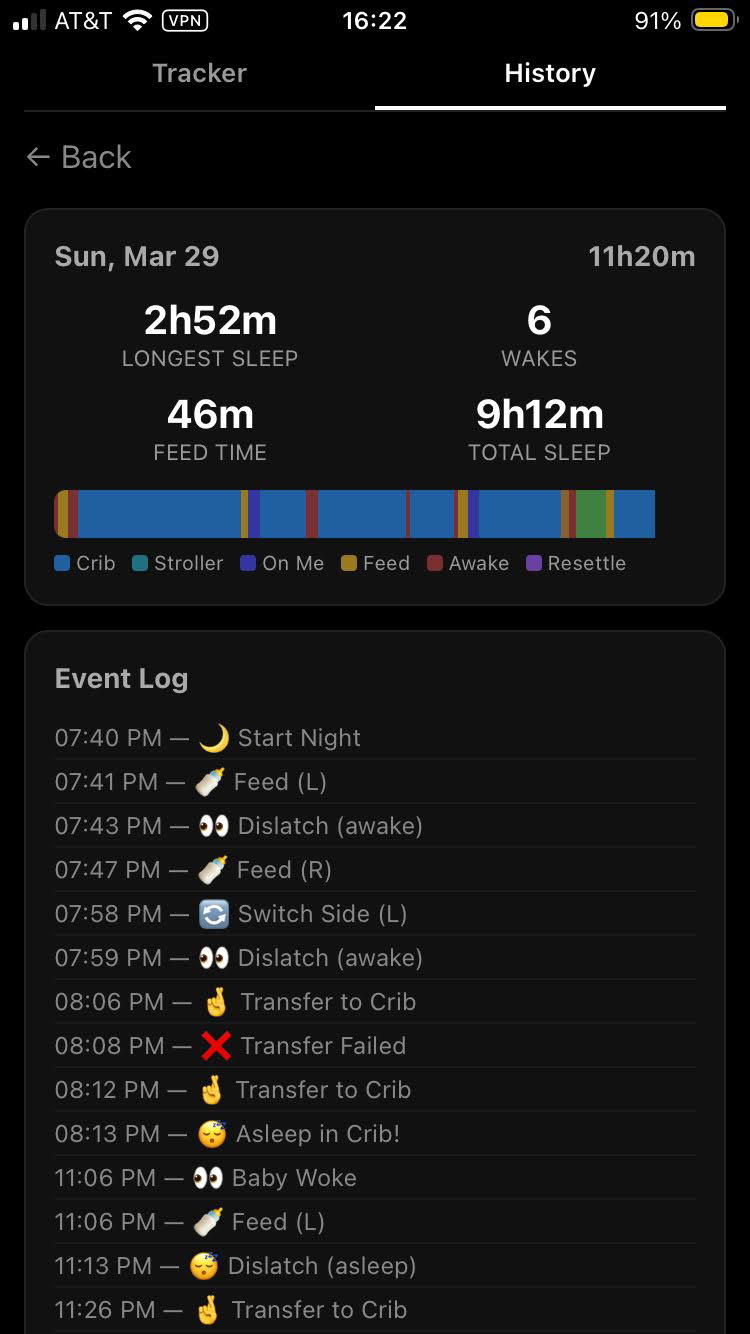
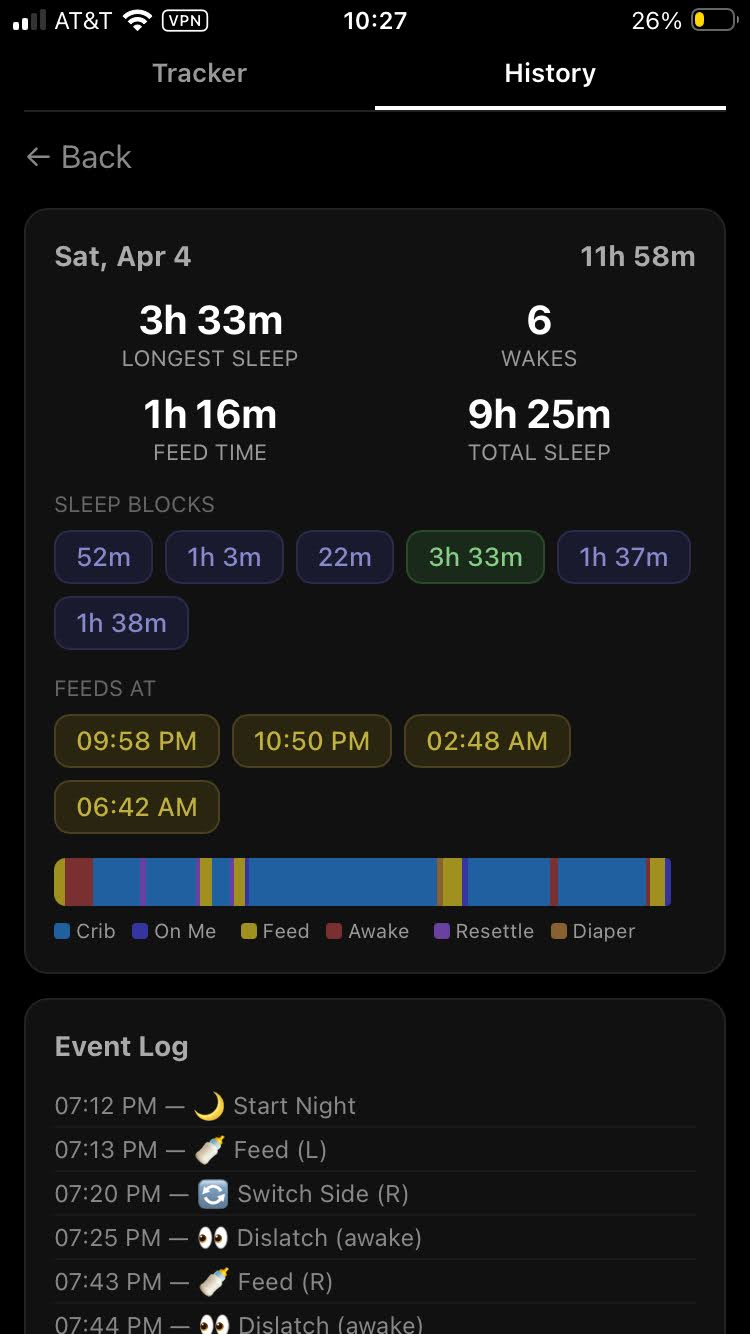
Update README: refresh screenshots, add missing features, fix commands
- Replace screenshots: tracker-awake, night-detail, add trends chart
- Remove tracker-feeding screenshot (3 images is tighter)
- Add self-soothing to "What it tracks"
- Add night duration, sleep block durations, feed times to per-night summary
- Add feed times scatter plot to "What it reports"
- Fix docker compose update command (build, not pull, for local builds)

diff --git a/README.md b/README.md
@@ -17,15 +17,17 @@ The app models your night as a state machine. Depending on the current state, on
 - **Feeds** — start, switch breast (auto-flips), dislatch (awake or asleep). Tracks left/right duration separately.
 - **Sleep** — on me, in crib, in stroller. Tracks where the baby is sleeping.
 - **Transfers** — crib transfer attempts with deferred outcome (tap result when hands are free).
+- **Self-soothing** — baby put down awake or stirring in crib, settling without intervention.
 - **Resettling** — in-crib settling without a feed.
 - **Strolling** — the nuclear option when the crib isn't working.
 - **Diaper changes** — because shit happens, at any time.
 
 ## What it reports
 
-- Per-night summary: total sleep, total feed time, wake count, feed count, longest sleep block
+- Per-night summary: night duration, total sleep, total feed time, wake count, feed count, longest sleep block, individual sleep block durations, feed times
 - Color-coded timeline bar showing the night at a glance
 - Full event log with timestamps
+- Feed times scatter plot showing when feeds happen across nights
 - Trend charts with 3-night moving averages: longest sleep, total sleep, wake count, feed count, total feed time, feed time by breast (L/R)
 - CSV export for backup or analysis
 
@@ -33,8 +35,8 @@ The app models your night as a state machine. Depending on the current state, on
 
 <p align="center">
   <img src="docs/tracker-awake.png" width="250" alt="Tracker — awake state">
-  <img src="docs/tracker-feeding.png" width="250" alt="Tracker — feeding state">
   <img src="docs/night-detail.png" width="250" alt="Night detail with timeline">
+  <img src="docs/trends.png" width="250" alt="Trend charts with moving averages">
 </p>
 
 ## Deploy
@@ -52,7 +54,7 @@ That's it. The app is at `http://localhost:8080`.
 To update:
 
 ```bash
-docker compose pull   # or: docker compose build --no-cache
+docker compose build --no-cache
 docker compose up -d
 ```
 
